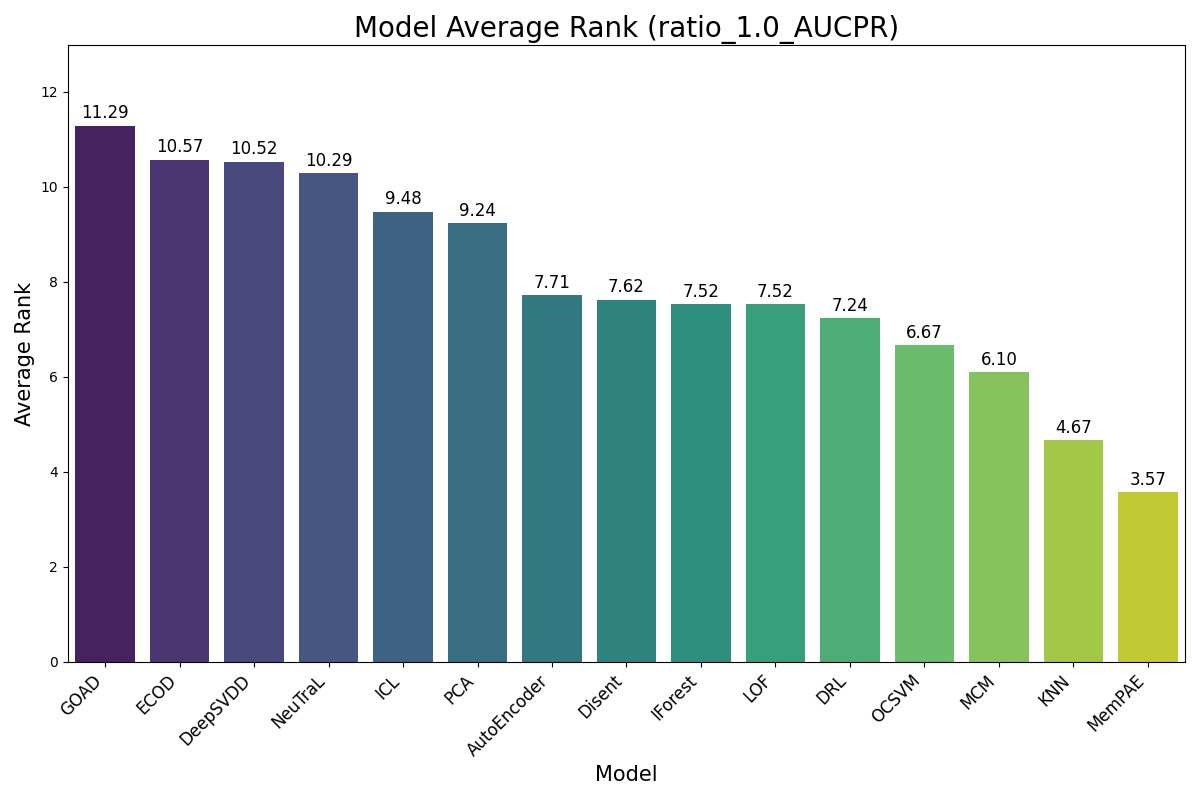
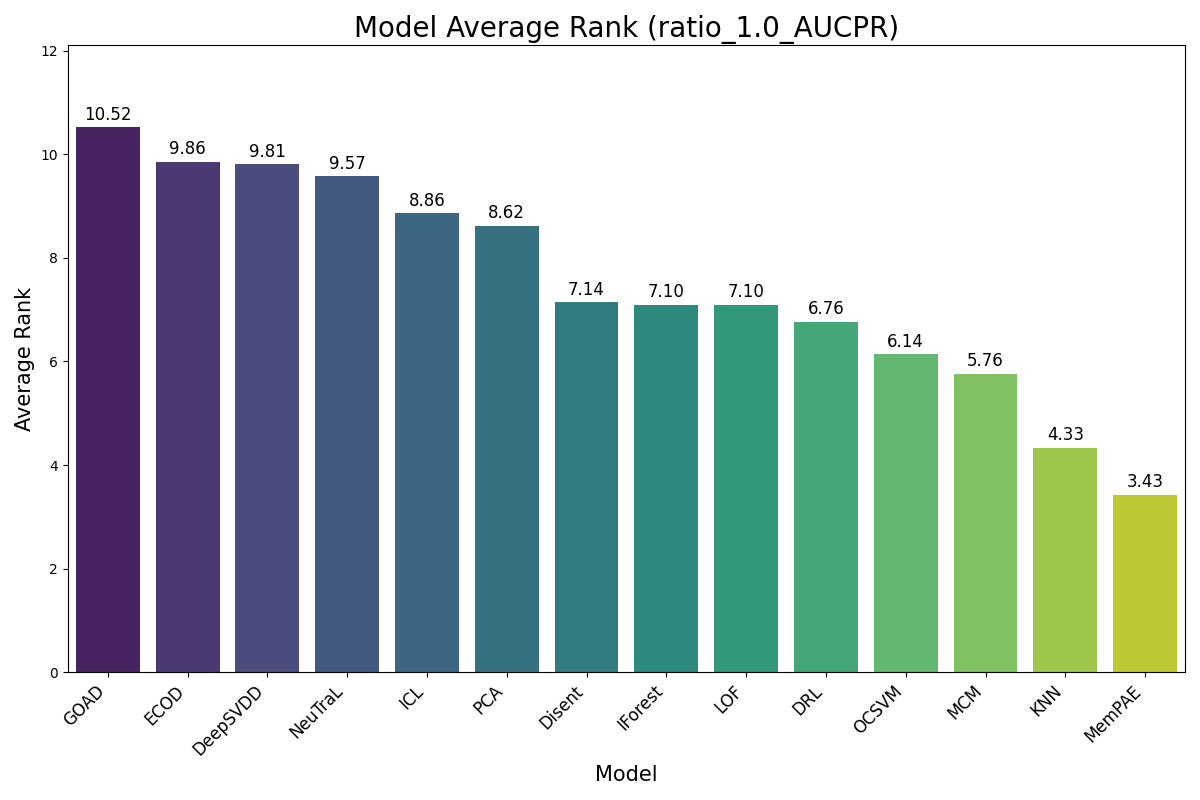
temp

diff --git a/summary.py b/summary.py
@@ -558,7 +558,7 @@ def main(args):
     ]
     models=  [
         'IForest', 'LOF', 'OCSVM', 'ECOD', 'KNN', 'PCA',  # KNN: 0.6918, LOF: 0.6612
-        'AutoEncoder', 
+        # 'AutoEncoder', 
         'DeepSVDD', 'GOAD', 
         'NeuTraL', 'ICL', 'MCM', 'DRL',
         'Disent',
@@ -626,11 +626,11 @@ def main(args):
     for base in keys:
         render(pivots, data, models, my_models, base, 
                add_avg_rank=True, use_rank=False, use_std=False, 
-               use_baseline_pr=True, is_temp_tune=False, is_sort=False, is_plot=True)
+               use_baseline_pr=False, is_temp_tune=False, is_sort=False, is_plot=True)
 
     models = [
         'IForest', 'LOF', 'OCSVM', 'ECOD', 'KNN', 'PCA',  # KNN: 0.6918, LOF: 0.6612
-        'AutoEncoder', 
+        # 'AutoEncoder', 
         'DeepSVDD', 'GOAD', 
         'NeuTraL', 'ICL', 'MCM', 'DRL',
         'Disent',
@@ -673,7 +673,7 @@ def main(args):
             # 'ECOD', # remove due to local
             'KNN', 
             'PCA',  
-            'AutoEncoder', 
+            # 'AutoEncoder', 
             # 'DeepSVDD', 'GOAD', # not important baseline 
             # 'NeuTraL', 'ICL', # not important baseline
             # Below three are important.
